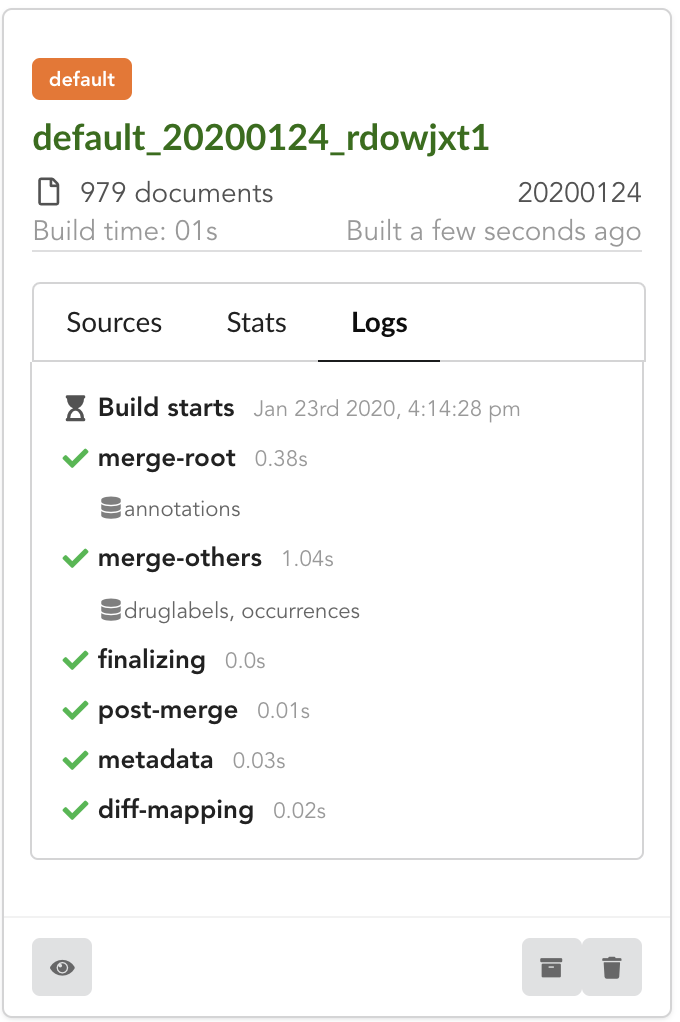
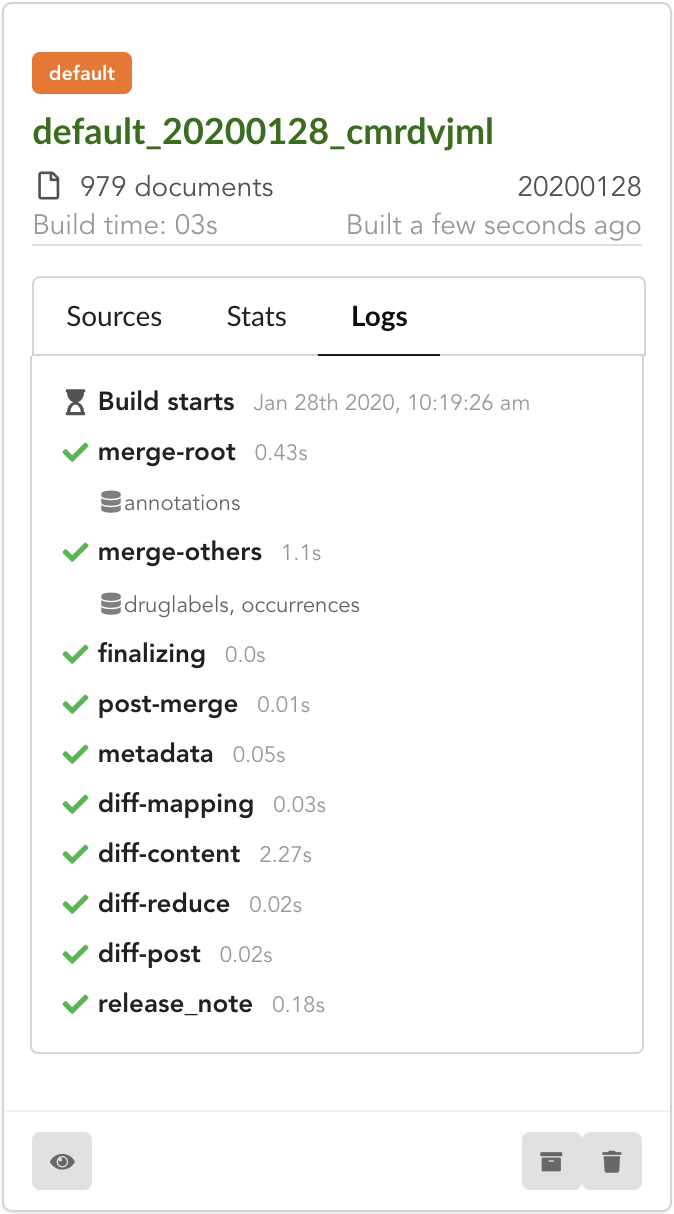
fix doc with diff release + more troubleshooting

diff --git a/docs/doc/studio_tutorial.rst b/docs/doc/studio_tutorial.rst
@@ -982,8 +982,8 @@ The next configuration is summarized in the following picture:
 
 Upon validation, build configuration is ready to be used.
 
-Creating a new build
-^^^^^^^^^^^^^^^^^^^^
+Incremental release
+^^^^^^^^^^^^^^^^^^^
 
 Configuration reflects our changes and is up-to-date, let's create a new build. Click on |menu| if not already open, then "Create a new build"
 
@@ -991,48 +991,65 @@ Configuration reflects our changes and is up-to-date, let's create a new build. 
    :width: 350px
 
 After few seconds, we have a new build listed. Clicking on "Logs" will show how the **Hub** created it. We can see it first merged ``annotations``
-in the "merge-root" step (for *root documents*), then ``druglabels`` and ``occurrences`` sources. The last step, "diff-mapping" shows the **Hub**
-even tried to compute an incremental release by comparing our new build with previous one.
+in the "merge-root" step (for *root documents*), then ``druglabels`` and ``occurrences`` sources. The remaining steps, (*diff*, *release note*) were 
+automatically triggered by the **Hub**. Let's explore these further.
 
 .. image:: ../_static/buildlogs.png
    :width: 300px
 
-If we open the build and click on "Releases" tab, we don't any release generated though... What happened? Time to open the logs (see button on the bottom right).
+If we open the build and click on "Releases" tab, we have a *diff* release, or *incremental* release, as mentioned in the "Logs". Because a previous release existed for
+that build configuration (the one we did in part one), the **Hub** tries to compute an release comparing the two together, identifying new, deleted and updated documents.
+The result is a *diff* release, based on **json diff** format.
 
-.. image:: ../_static/errlogs.png
+.. image:: ../_static/diffrelease.png
+   :width: 450px
+
+In our case, one diff file has been generated, its size is 2 MiB, and contains information to update 971 documents. This is expected since we enriched our existing data. **Hub** also
+mention the mapping has been changed, and these will be reported to the index as we "apply" that diff release.
+
+.. note:: Because we added new datasources, without modifying existing mapping in the first ``annotations`` source, the differences between previous and new mappings correspond to
+   "add" json-diff operations. This means we strictly only add **more** information to the existing mapping. If we'd removed, and modify existing mapping fields, the **Hub** would
+   have reported an error and aborted the generation of that diff release, to prevent an error during the update of the ElasticSearch index, or to avoid data inconsistency.
+
+The other document that has been automatically generated is a *release note*.
+
+.. image:: ../_static/genrelnote.png
+   :width: 300px
+
+If we click on "View", we can see the results: the **Hub** compared previous data versions and counts, deleted and added datasources and field, etc...
+In other words, a "change log" summarizing what happened betwen previous and new releases. These release notes are informative, but also can be published
+when deploying data releases (see part 3).
+
+.. image:: ../_static/relnote.png
    :width: 600px
 
-We indeed have an error, claiming that a "move" operation was found when comparing mappings between new and old builds, using *json-diff*. If we'd directly update our ElasticSearch
-mapping using that *json-diff* operation, we would get an error. To prevent proceeding further, **Hub** stopped the creation of that release. As a consequence, we'll need to create
-a *full* release again (that is, creating a new index). 
+Let's apply that diff release, by clicking on |applydiff|
 
-Let's click on |newrelease|, select *full* and validate. Data is then being indexed, after few seconds, ElasticSearch index is ready.
+.. |applydiff| image:: ../_static/applydiff.png
+   :width: 30px
 
+We can select which index to update, from a dropdown list. We only have index, the one we created earlier in part 1. That said, **Hub** will do its best to filter out any incompatible
+indices, such those not coming from the same build configuration, or not having the same document type.
 
-Creating and testing final API
-^^^^^^^^^^^^^^^^^^^^^^^^^^^^^^
-
-Next and final step is to re-create our API in order to serve this new index previously created. Click on |api|, we still have our existing API running, we can either delete or stop it
-using the action buttons.
-
-.. note:: We could also let it run and create a new one with a different port, this would also work, but following this tutorial, we only exposed port 8000 for APIs so we
-   would't be able to easily access it like we did before.
-
-We can then create our new API
-
-.. image:: ../_static/apiformv2.png
+.. image:: ../_static/applydiffform.png
    :width: 500px
 
-Validate, then click on "Run", API is now up and running
+Once confirmed, the synchronization process begins, diff files are applied to the index, just as if we were "patching" data. We can track the command execution from the command list, and
+also from the notification popups when it's done.
 
-.. note:: You may encountered an error (red bell) where Studio claims the address is already in use. This is known issue that randomly occurs. If so, **Hub** needs to be manually restarted,
-   click on |settings| (top right corner) then |restart| and try again.
+.. image:: ../_static/commanddiff.png
+   :width: 500px
 
-.. |settings| image:: ../_static/settings.png
-   :width: 30px
-.. |restart| image:: ../_static/restart.png
-   :width: 90px
+.. image:: ../_static/notifdiff.png
+   :width: 500px
 
+Our index, currently served by our API defined in the part 1, has been updated, using a diff, or incremental, release. It's time to have a look at the data.
+
+
+Testing final API
+^^^^^^^^^^^^^^^^^^^^^^^^^^^^^^
+
+Because we directly apply a diff, or patch our data, on ElasticSearch index, we don't need to re-create an API. Querying the API should just transparently reflect that "live" update.
 Time to try our new enriched API. We'll use ``curl`` again, here few query examples:
 
 .. code:: bash
@@ -1159,7 +1176,22 @@ Troubleshooting
 
 We test and make sure, as much as we can, that the **BioThings Studio** image is up-to-date and running properly. But things can still go wrong...
 
-First make sure all services are running. Enter the container and type ``netstat -tnlp``, you should see
+A good starting point investigating an issue is to look at the logs from the **BioThings Studio**. Make sure connected (green power button on the top right),
+then click "Logs" button, on the bottom right. You will see logs in real-time (if not connected, it will complain about a disconnected websocket). As you click
+and perform actions through out the web application, you will see log message in that windows, and potentially errors not displayed (or with less details) in the
+application.
+
+.. image:: ../_static/logs.png
+   :width: 500px
+
+The "Terminal" (click on the bottom left button). gives access to commands you can manually type from the web application. Basically, any action performed clicking on the application
+is converted into a command call. You can even see what commands were launched, which ones are running. This terminal gives also access to more commands, and advanced options that may
+be useful to troubleshoot an issue. Typing ``help()``, or even passing a command name such as ``help(dump)`` will print documentation on available commands and how to use them.
+
+.. image:: ../_static/term.png
+   :width: 500px
+
+On a lower level, make sure all services are running in the docker container. Enter the container with ``docker exec -ti studio /bin/bash`` and type ``netstat -tnlp``, you should see
 services running on ports (see usual running `services`_). If services running on ports 7080 or 7022 aren't running,
 it means the **Hub** has not started. If you just started the instance, wait a little more as services may take a while before
 they're fully started and ready.
@@ -1205,7 +1237,7 @@ directory (in our case, ``/home/biothings/biothings_studio``)
 
 .. note:: Press Control-B then D to dettach the tmux session and let the **Hub** running in background.
 
-By default, logs are available in ``/home/biothings/biothings_studio/data/logs``.
+By default, logs are available in ``/data/biothings_studio/logs/``.
 
 Finally, you can report issues and request for help, by joining Biothings Google Groups (https://groups.google.com/forum/#!forum/biothings)
 
